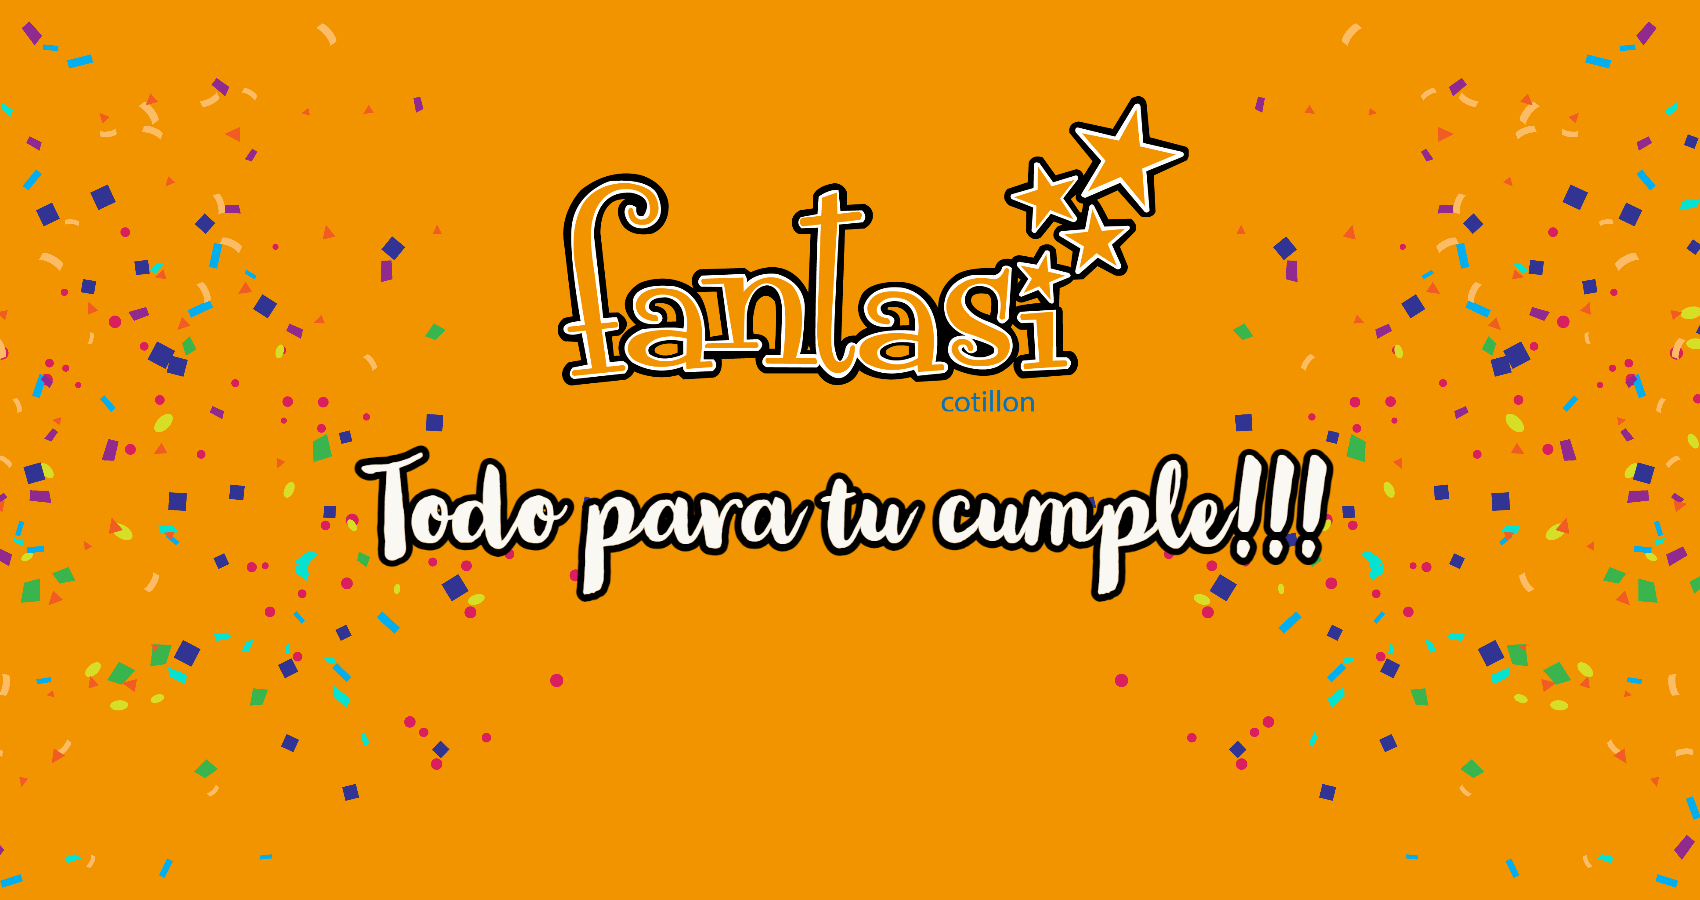
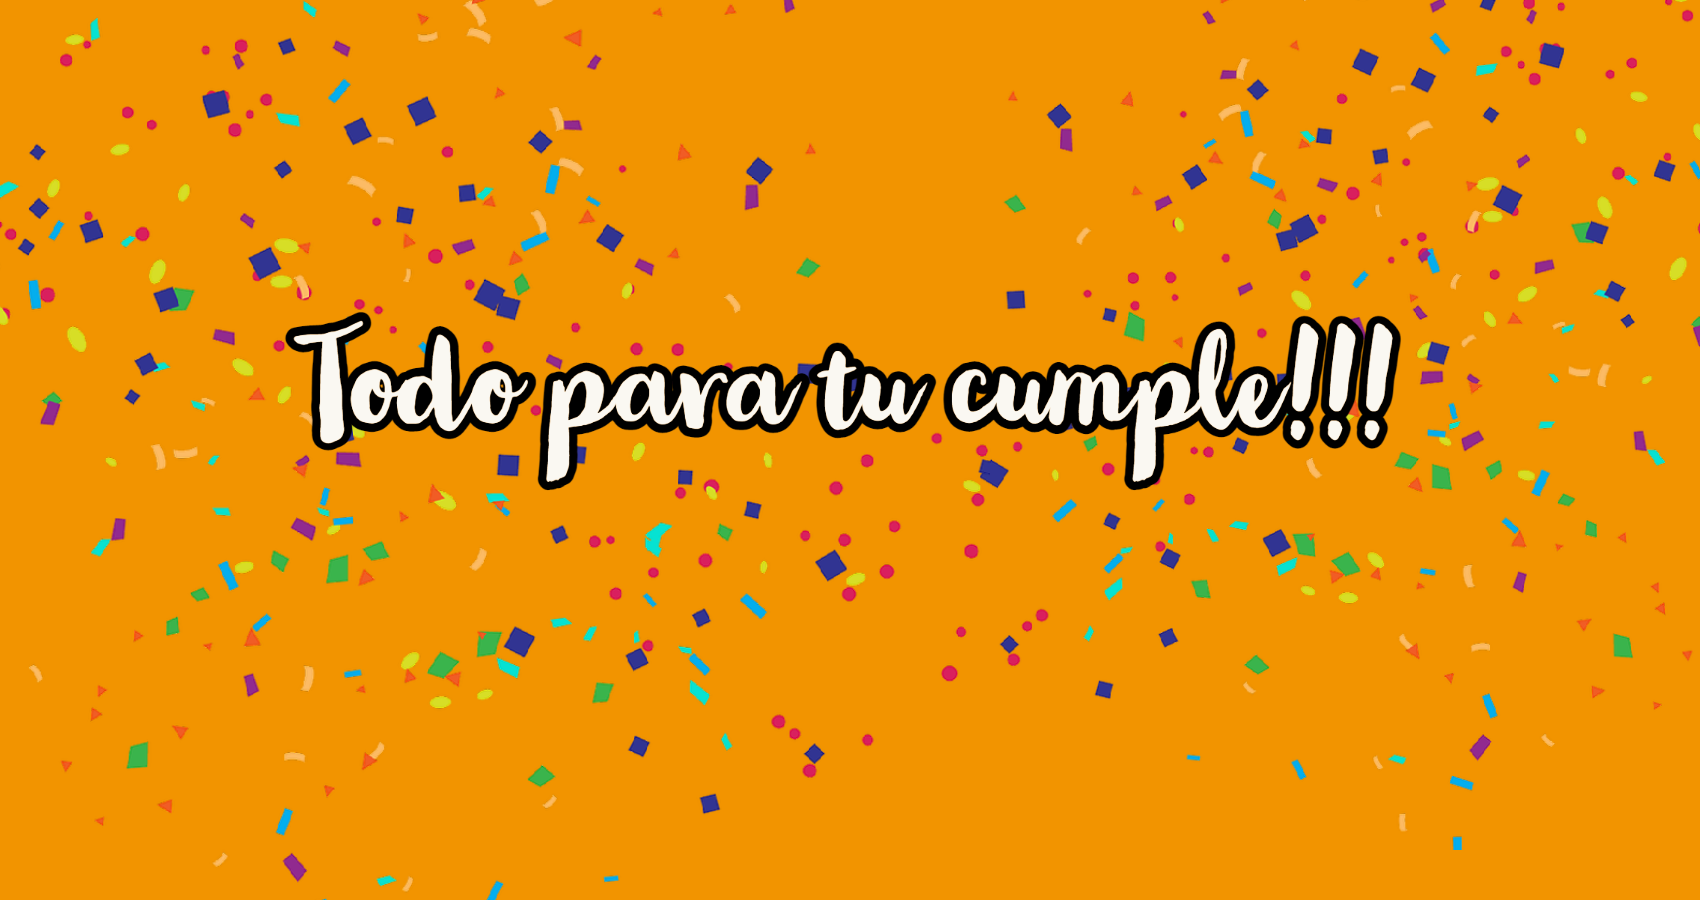
cambios de colores y modificaciones en navbar como en slider

diff --git a/src/Components/Navbar/Navbar.js b/src/Components/Navbar/Navbar.js
@@ -1,6 +1,7 @@
 import React from "react";
 import "./Navbar.css";
 import img from "../../Assets/Img/logo.png";
+import star from "../../Assets/Img/estrella.png"
 import { Navbar, Container, Nav } from "react-bootstrap";
 
 
@@ -10,17 +11,26 @@ function Header() {
   return (
     
     <Navbar bg="dark" expand="lg" variant="dark sticky-top">
-      
+      <a className="navbar-brand" href="a" alt=""><img src={img} className="logo" alt=""/></a>
       <Container>
-        <a className="navbar-brand" href="a" alt=""><img src={img} className="logo" alt=""/></a>
+        
         <Navbar.Toggle aria-controls="basic-navbar-nav" />
         <Navbar.Collapse id="basic-navbar-nav">
           <Nav className="m-auto">
-            <Nav.Link href="#Home">Inicio</Nav.Link>
-            <Nav.Link href="#About">Nosotros</Nav.Link>
-            <Nav.Link href="#Services">Servicios</Nav.Link>
-            <Nav.Link href="#Products">Productos</Nav.Link>
-            <Nav.Link href="#Quest">Preguntas frecuentes</Nav.Link>
+          
+            <Nav.Link href="#Home"><img src={star} className="star" />Inicio</Nav.Link>
+            
+
+            <Nav.Link href="#About"><img src={star} className="star" />Nosotros</Nav.Link>
+            
+
+            <Nav.Link href="#Services"><img src={star} className="star" />Servicios</Nav.Link>
+            
+
+            <Nav.Link href="#Products"><img src={star} className="star" />Productos</Nav.Link>
+            
+
+            <Nav.Link href="#Quest"><img src={star} className="star" />Preguntas frecuentes</Nav.Link>
           </Nav>
         </Navbar.Collapse>
       </Container>

diff --git a/src/Components/Navbar/Navbar.css b/src/Components/Navbar/Navbar.css
@@ -2,20 +2,42 @@
 
 
 .logo {
-    height: 5.5em;
-    margin-top: 1em;
+    height: 4em;
+    margin-left: 2em;
 }
-
-.navbar{
-    height: 10vh;
-    box-shadow:0px 2px 5px black;
-}
-
 .bg-dark {
-    background-color: #000 !important;
+    background-color: white !important;
+    z-index: 2;
 }
 .nav-link{
-    margin-left: 2rem;
-    color: white !important;
-    font-family: 'Lucida Sans', 'Lucida Sans Regular', 'Lucida Grande', 'Lucida Sans Unicode', Geneva, Verdana, sans-serif;
+    display: flex;
+    color: #000 !important;
+    font-family: Verdana, Geneva, Tahoma, sans-serif;
+    font-size: large;
+    font-weight: bold;
+    align-items: center;
+    margin-left: 1em;
 }
+.nav-link:hover{
+    color: #f29400 !important;
+    transform: scale(1.2);
+}
+
+
+.navbar{
+    display: flex;
+    align-items: flex-end;
+    z-index: 10; 
+    box-shadow: 1px 3px 15px black; 
+}
+
+.star{
+    height: 1em;
+    padding: 1px;
+    
+}
+
+.star:hover{
+    transform: scale(1.2);
+}
+

diff --git a/src/Components/Slider/Slider.css b/src/Components/Slider/Slider.css
@@ -1,15 +1,16 @@
 .slider{
-    margin-bottom: 3em;
-    z-index: 1;
+    
+    min-height: 50vh;
     
 }
 
 .carousel-item {
-    height: 90vh;
-    min-height: 300px;
-    background: no-repeat center center scroll;
-    -webkit-background-size: cover;
-    -moz-background-size: cover;
-    -o-background-size: cover;
-    background-size: cover;
+    height: 50vh;
+    min-height: 90vh;
+    background-size: cover;   
   }
+
+  .carousel-inner {
+    height: 80vh;
+    
+}

diff --git a/src/Components/Products/Products.js b/src/Components/Products/Products.js
@@ -6,7 +6,7 @@ import './Products.css';
 export default function Products() {
   return (
     <div className="container">
-      <h1>productos</h1>
+      <h1 className='titulo'>productos</h1>
       <div className='prod'>
         <Figure>
           <Figure.Image width={171} height={180} alt="171x180" src={batidor} />

diff --git a/src/index.css b/src/index.css
@@ -5,9 +5,18 @@ body {
     sans-serif;
   -webkit-font-smoothing: antialiased;
   -moz-osx-font-smoothing: grayscale;
+  
 }
 
 code {
   font-family: source-code-pro, Menlo, Monaco, Consolas, 'Courier New',
     monospace;
+}
+
+#root{
+  background-color: antiquewhite;
+}
+h1{
+  text-align: center;
+  
 }

diff --git a/src/Components/Products/Products.css b/src/Components/Products/Products.css
@@ -1,10 +1,15 @@
 .prod{
     display: flex;
-    flex-wrap: wrap;
+    flex-direction: column;
     text-align: center;
     justify-content: space-around;
+    margin-top: 4em;
+    margin-bottom: 5.5em;
 }
-h1{
-    text-align: center;
+
+.titulo{
+    margin-top: 2.5em;
+    
 }
+
 

diff --git a/src/Components/Wsp/wsp.css b/src/Components/Wsp/wsp.css
@@ -2,7 +2,7 @@
     box-shadow: 2px 0px 5px black;
     border-radius: 100%;
     margin: 20px;
-    bottom: 25px;
+    bottom: 0px;
     right: 0px;
     z-index: 100;
     position: fixed;
